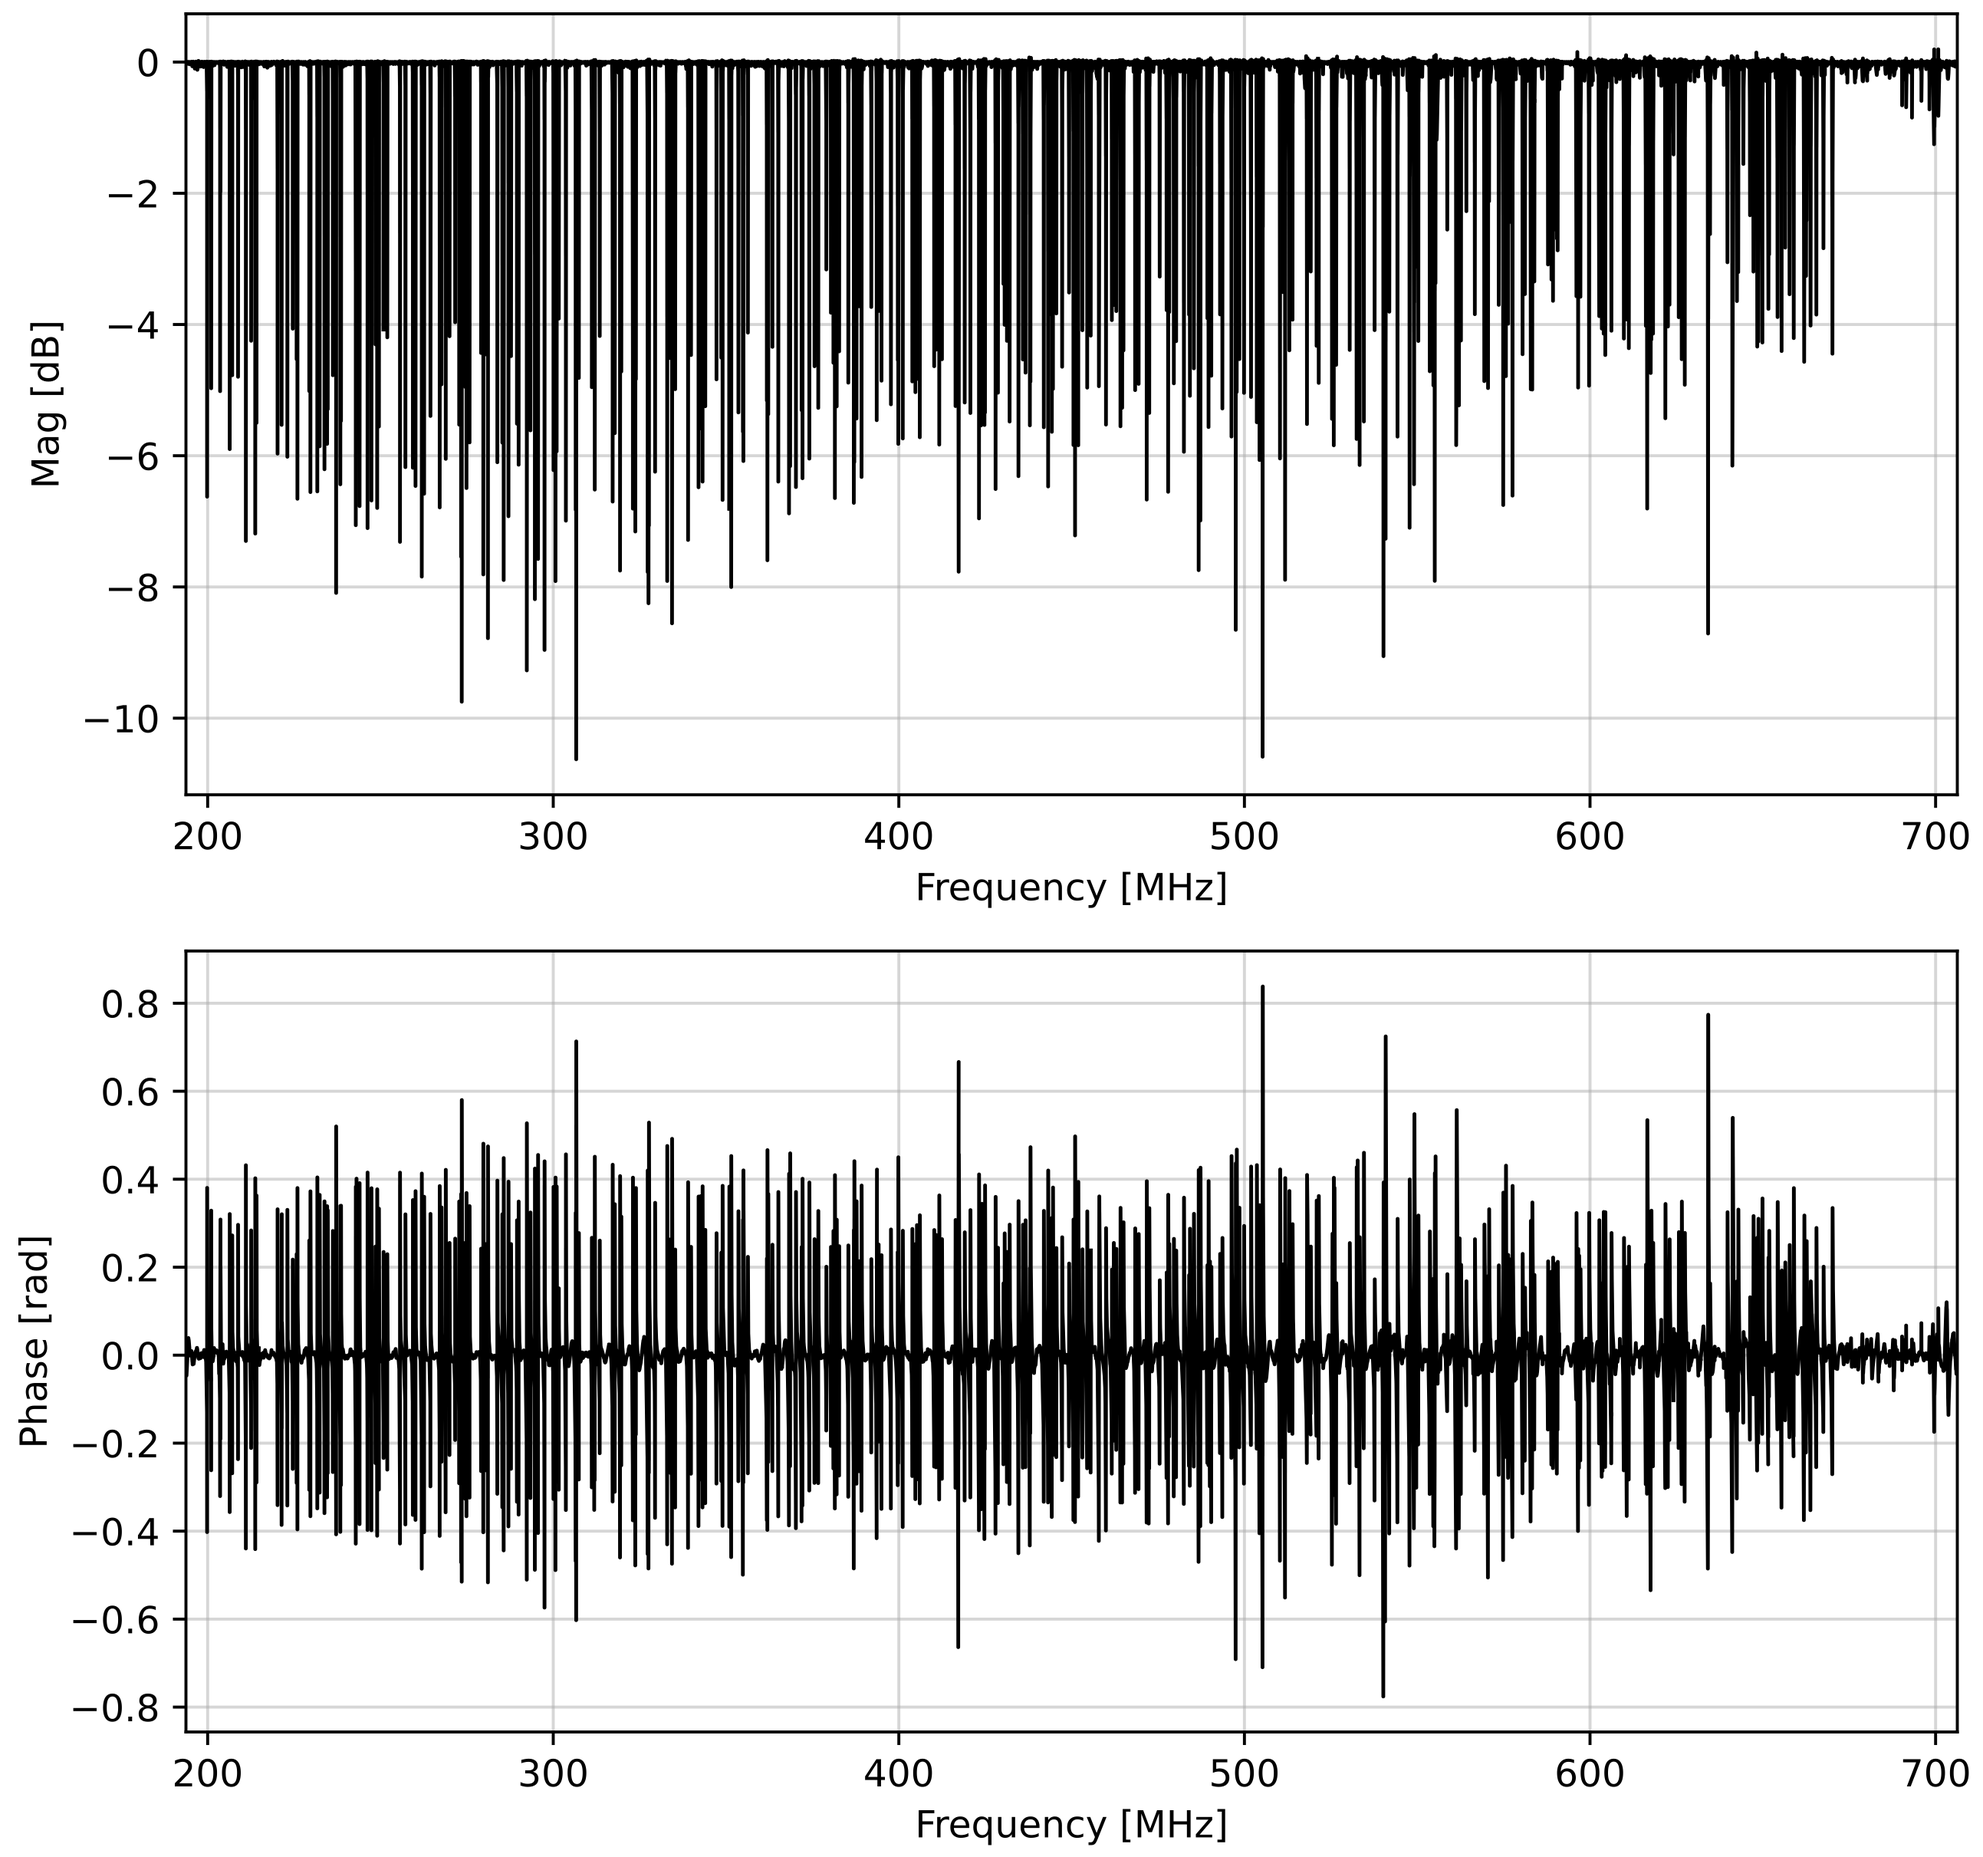
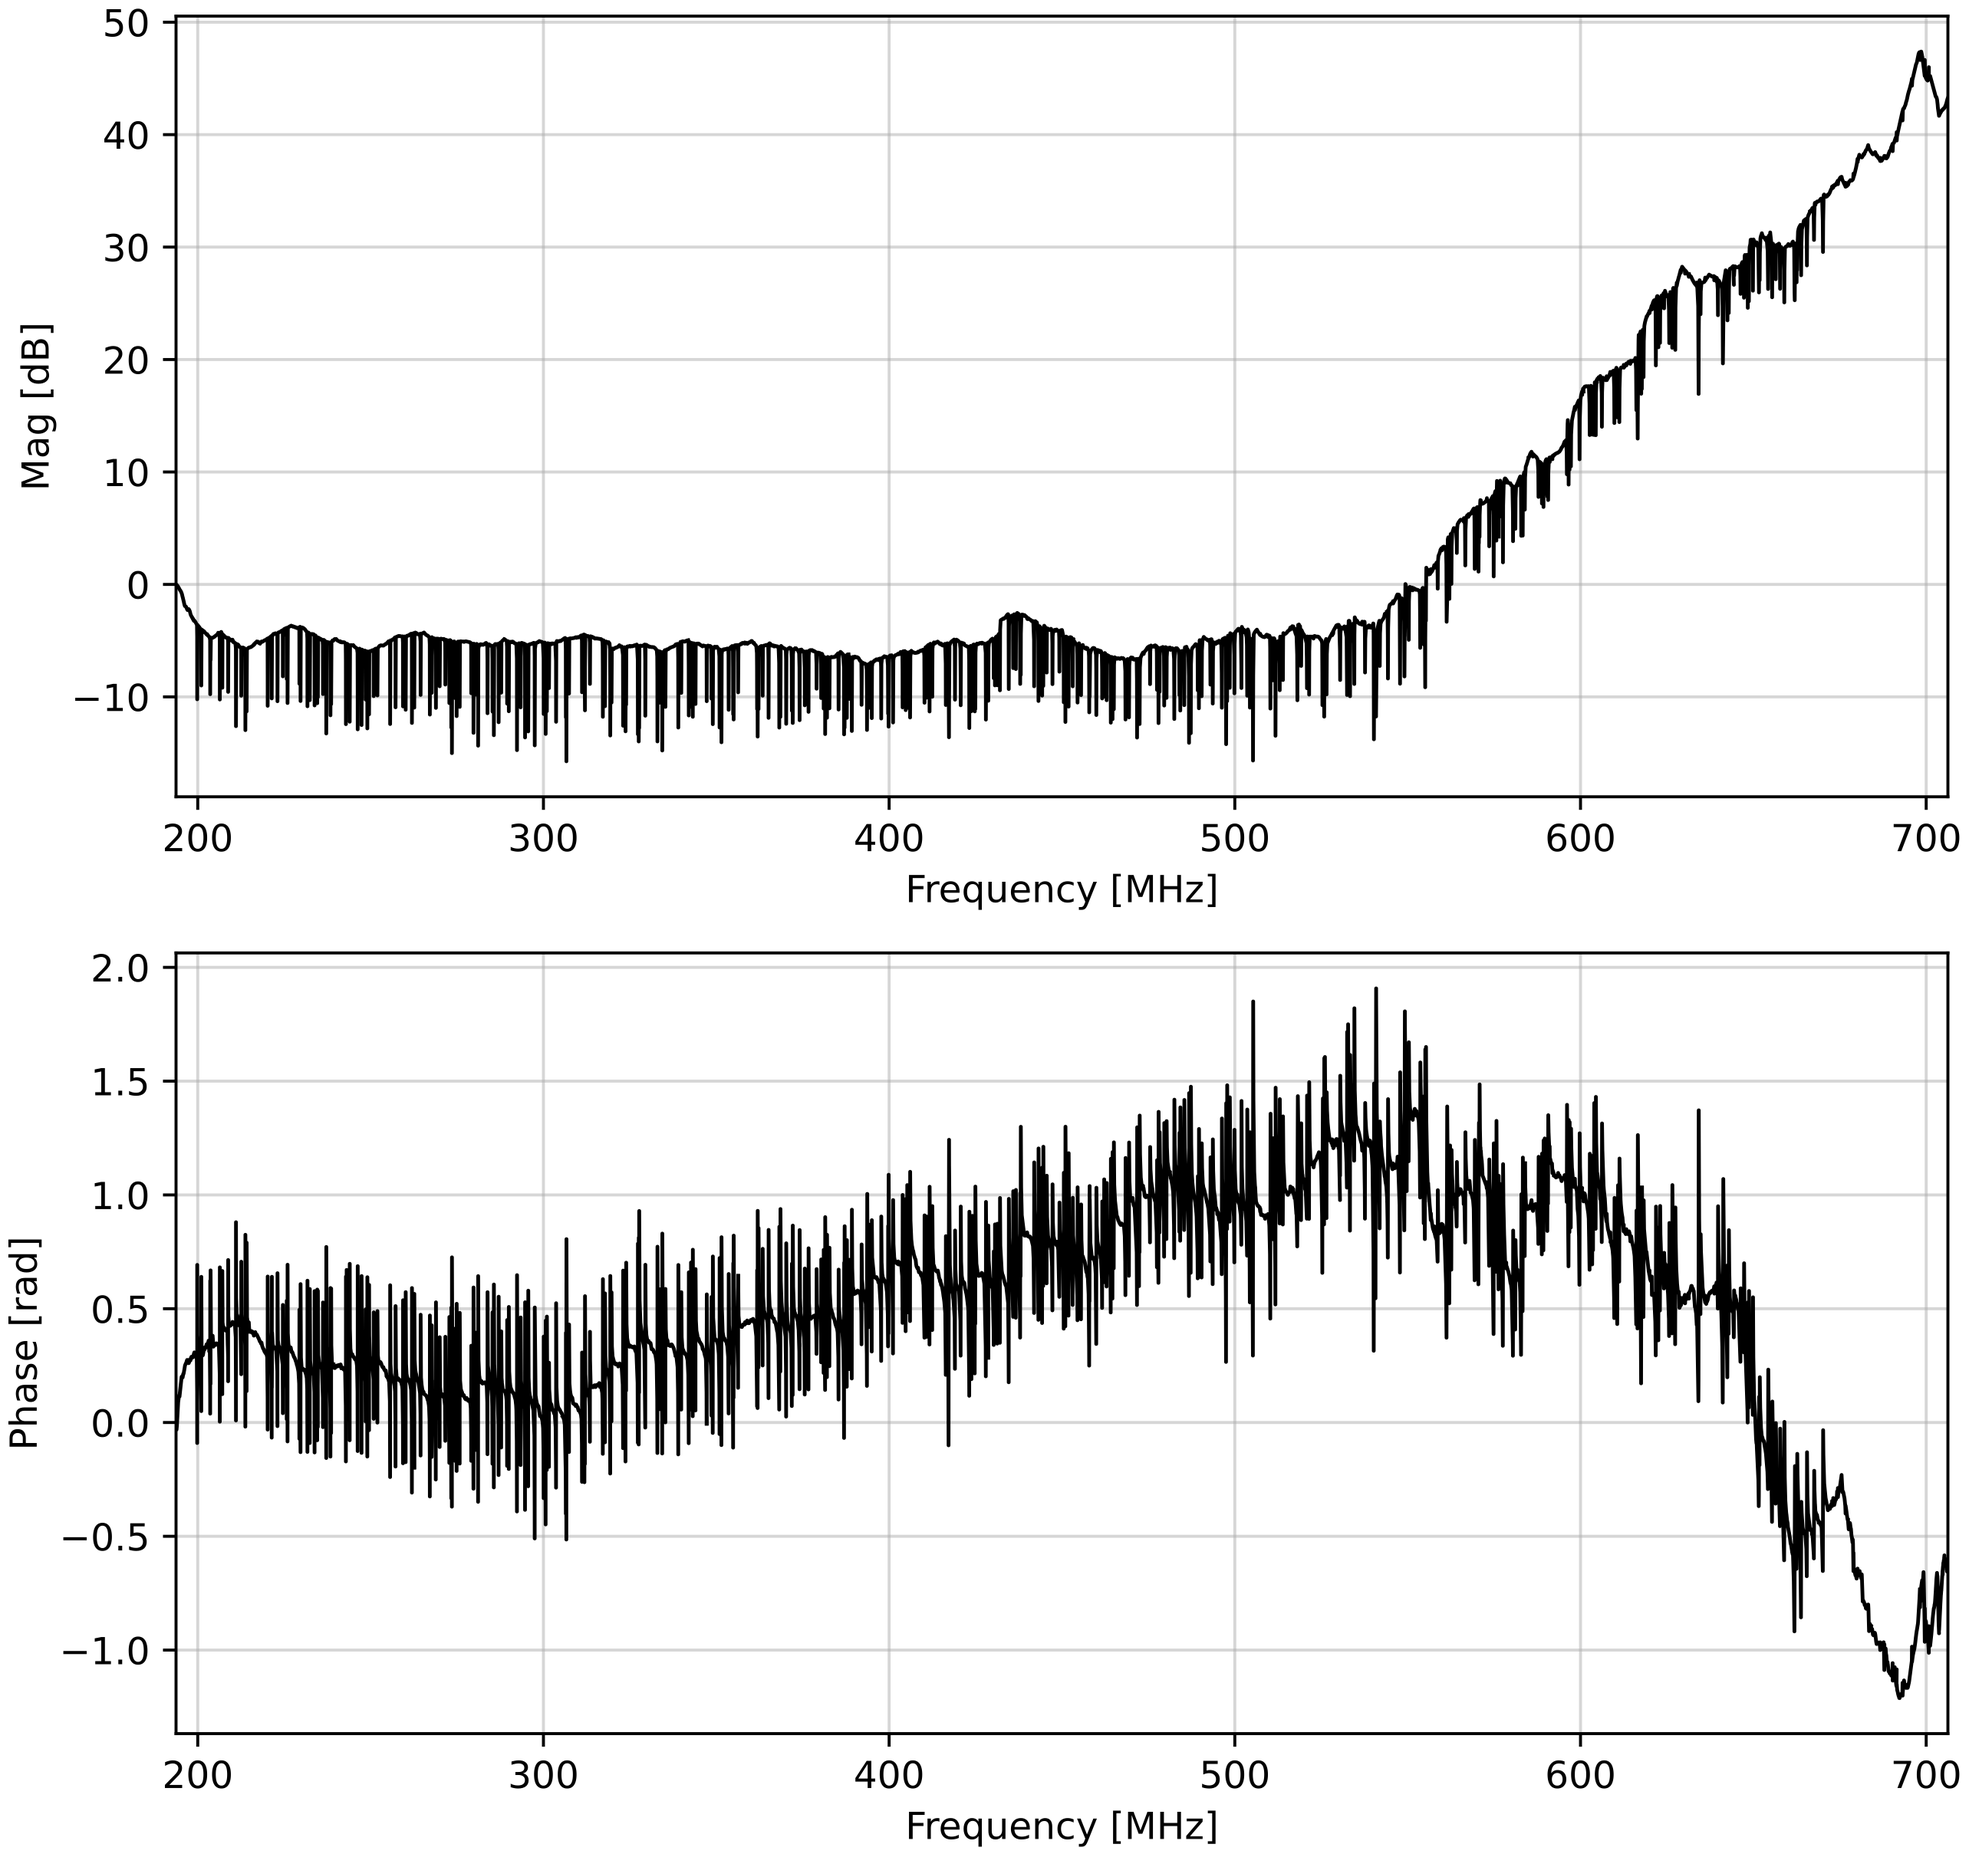
Updated

diff --git a/VNA.py b/VNA.py
@@ -20,6 +20,10 @@ class VNA():
             
             
     def removeBaseline(self, mag_filt='airp_lss', phase_filt='lowpass_cosine'):
+        if mag_filt==None:
+            mag_filt = 'None'
+        if phase_filt==None:
+            phase_filt = 'None'
         print("Removing baselines...")
         print('Magnitude baseline correction algorithm: '+mag_filt)
         print('Phase baseline correction algorithm: '+phase_filt)

diff --git a/script.py b/script.py
@@ -12,7 +12,7 @@ peaks, peaks_info = v140.findPeaks(mag_filt='airp_lss',
 
 
 v270 = pl.VNA.VNA(filename='20220531_04', temperature=270)
-v270.plotVNA()
+v270.plotVNA(mag_filt=None, phase_filt=None)
 
 peaks, peaks_info = v270.findPeaks(peak_width=(1.0, 150.0), peak_height=1.0, peak_prominence=(1.0, 30.0))
 

diff --git a/README.md b/README.md
@@ -51,8 +51,9 @@ This is a function that plots the amplitude (in dB) and phase (in radians) of a 
 - `'a_lss'`: the function `pl.asymmetric_least_squares_smoothing()` will be called (this is not available for `phase_filt`);
 - `'airp_lss'`: the function `pl.adaptive_iteratively_reweighted_penalized_least_squares_smoothing()` will be called (this is not available for `phase_filt`).
 
-This is an example showing the flattened magnitude and phase data using an `airp_lss` algorithm for the `mag_filt` and a `lowpass_cosine` for the `phase_filt`. <br>
+This is an example showing the original (without filtering out the baselines) and the flattened magnitude and phase data using an `airp_lss` algorithm for the `mag_filt` and a `lowpass_cosine` for the `phase_filt`. <br>
 <image src="images/vna_plot.png" width="60%">
+<image src="images/vna_plot_filt.png" width="60%">
 
 
 # `target` object
